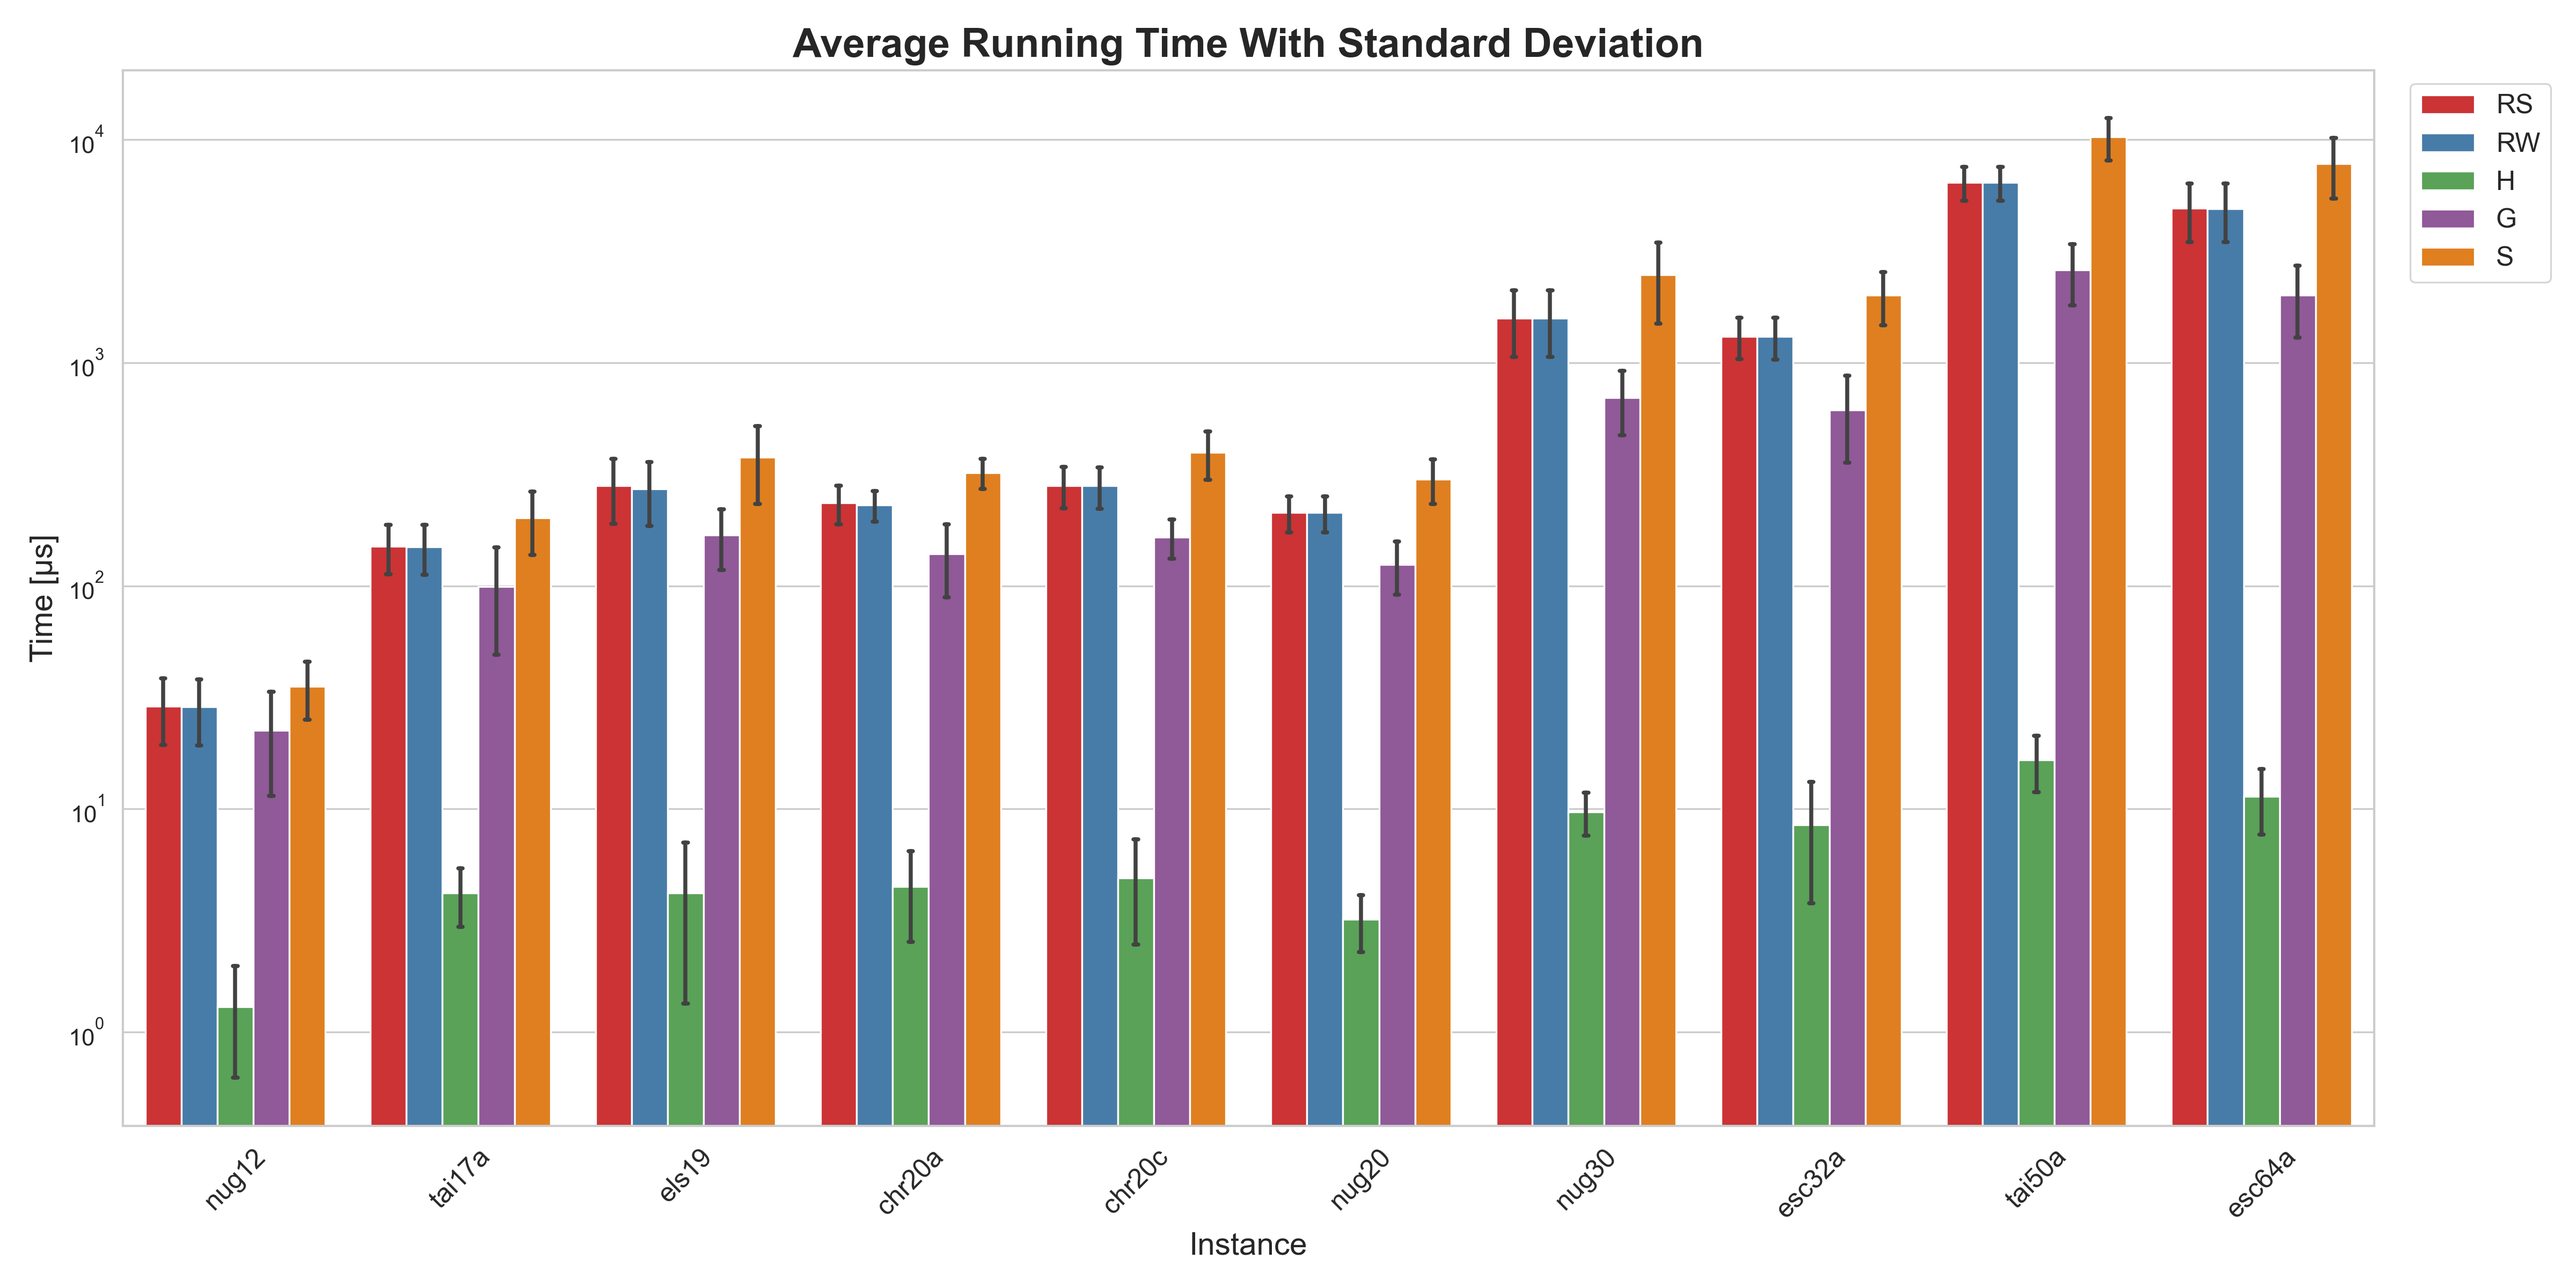
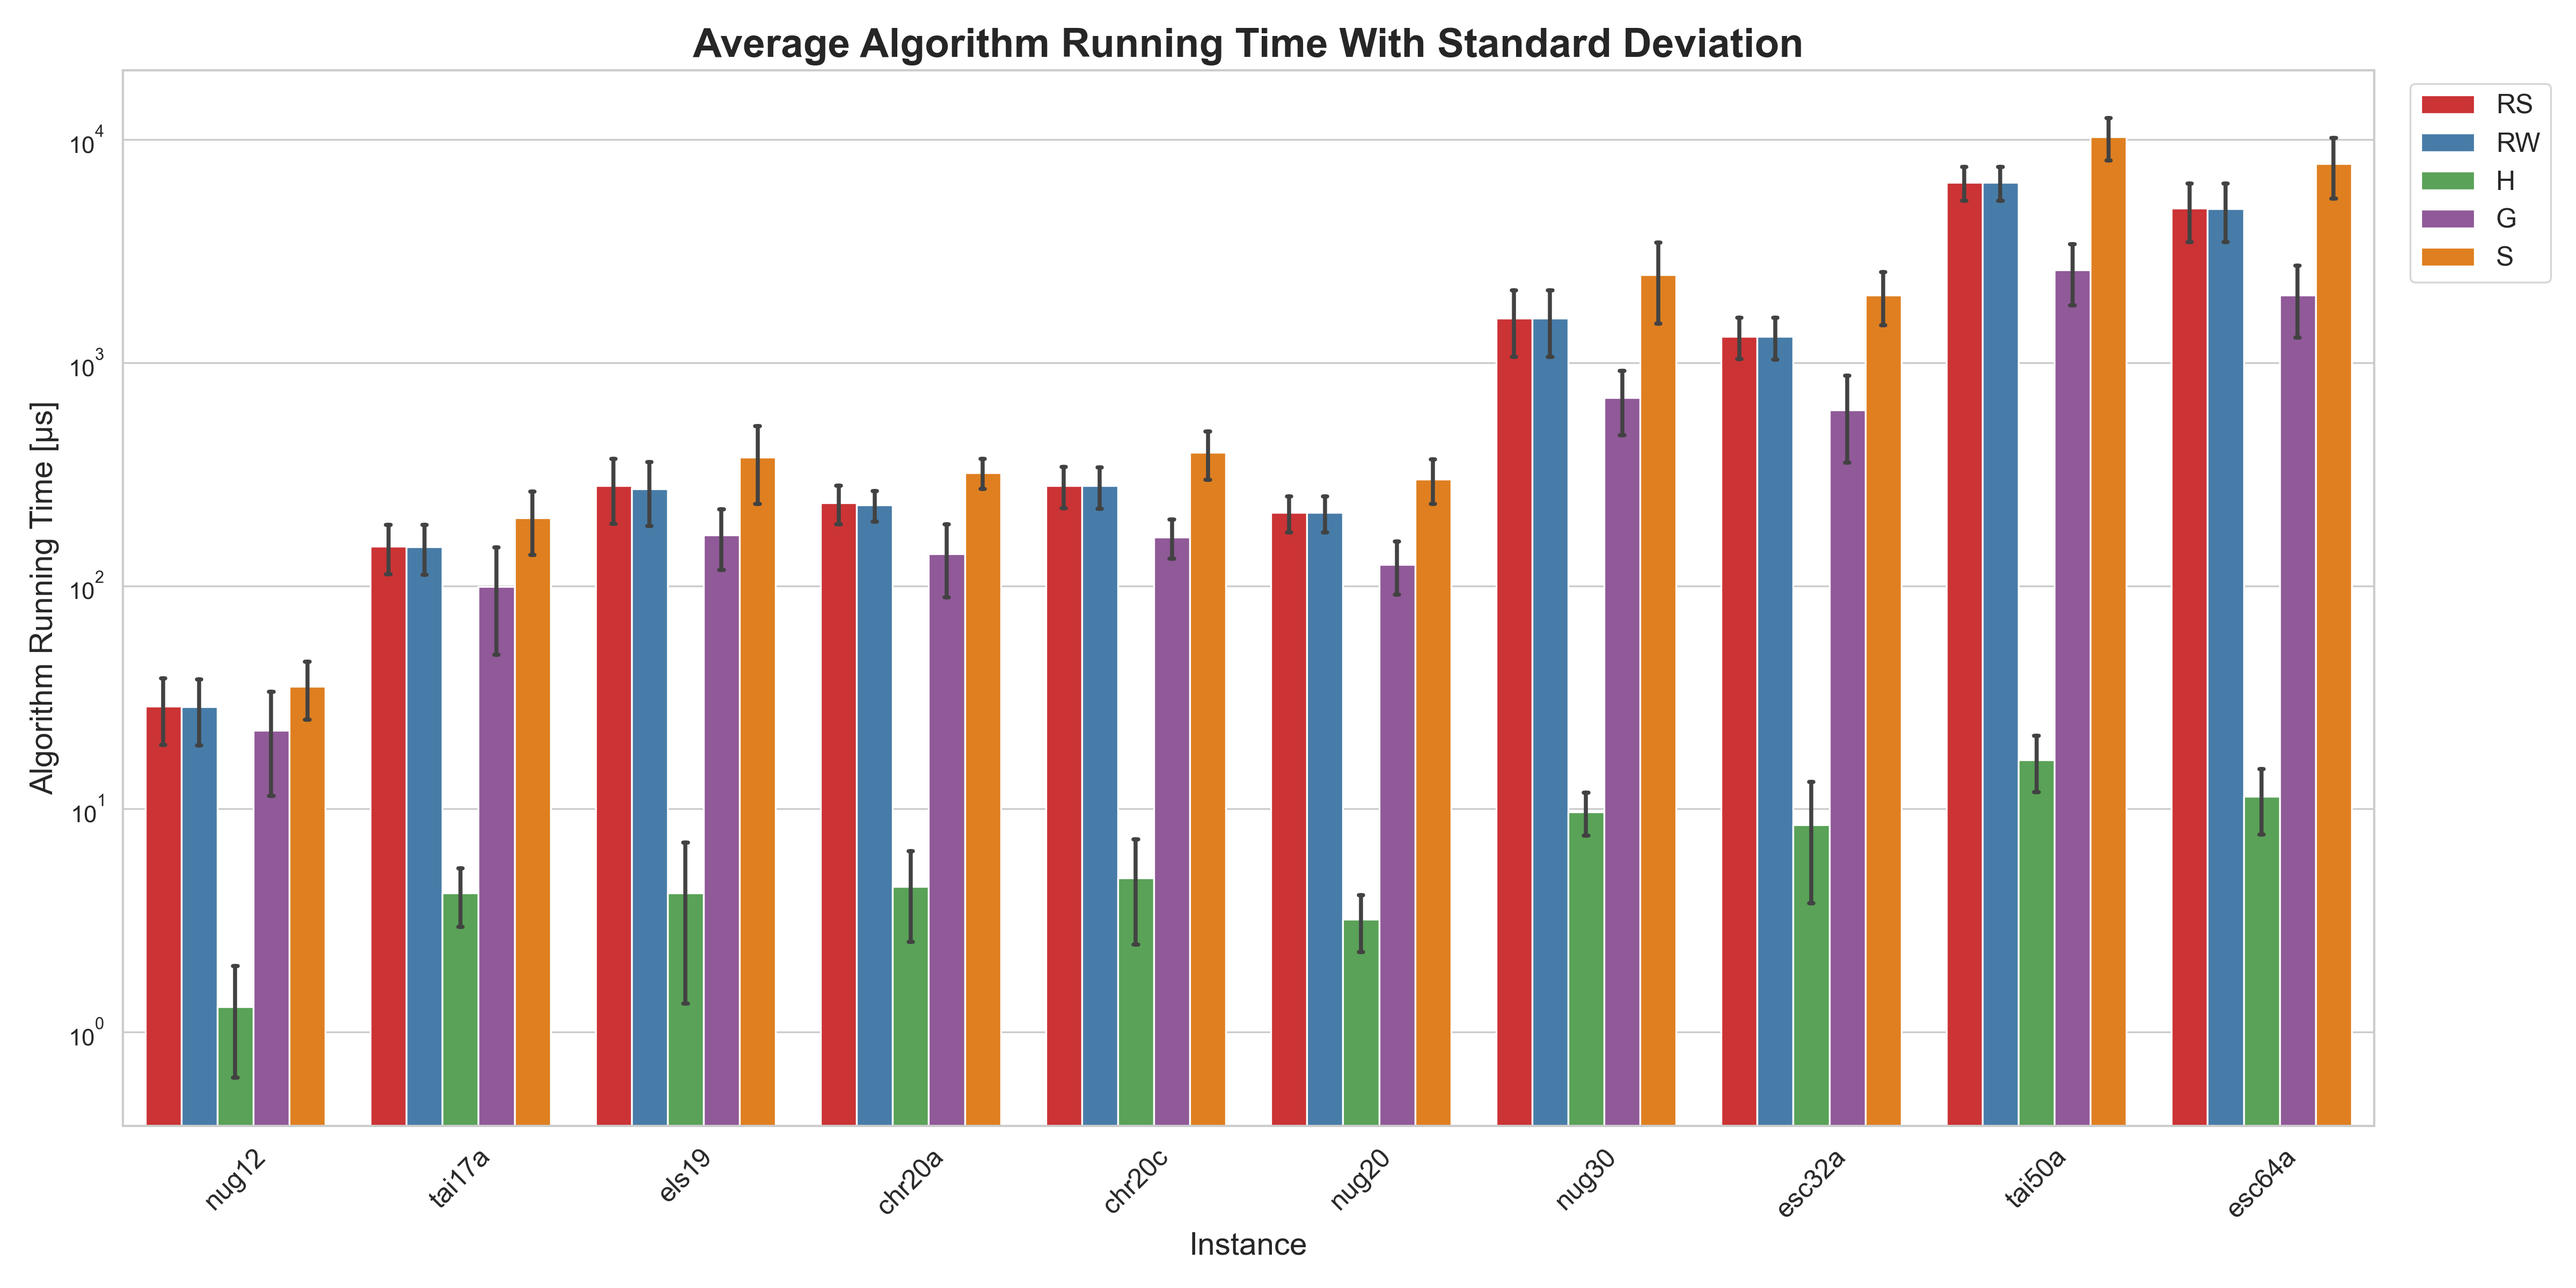
[PLOT]: efficiency

diff --git a/LS/src/plot.py b/LS/src/plot.py
@@ -40,8 +40,8 @@ def main():
     df['OptCost'] = df['OptCost'].replace(0, np.nan)
 
     # 1. QUALITY METRIC
-    # Quality Gap: (f_A - f_OPT) / f_OPT (Lower is better)
-    df['Quality_Gap'] = (df['BestCost'] - df['OptCost']) / df['OptCost']
+    # Quality: f_OPT/f_Best (Higher is better)
+    df['Quality'] = df['OptCost']/df['BestCost']
 
     # Sort instances by extracted size N, then by name
     df['Size'] = df['Instance'].apply(extract_size)
@@ -56,9 +56,9 @@ def main():
     # PLOT 1: QUALITY TRENDS (Min, Mean, Max)
     # ==========================================
     agg_q = df.groupby(['Algorithm', 'Instance', 'Size']).agg(
-        Gap_Min=('Quality_Gap', 'min'),
-        Gap_Mean=('Quality_Gap', 'mean'),
-        Gap_Max=('Quality_Gap', 'max')
+        Quality_Min=('Quality', 'min'),
+        Quality_Mean=('Quality', 'mean'),
+        Quality_Max=('Quality', 'max')
     ).reset_index()
 
     agg_q = agg_q.sort_values(by=['Size', 'Instance'])
@@ -70,14 +70,14 @@ def main():
     for ax, alg in zip(axes, algorithms):
         subset = agg_q[agg_q['Algorithm'] == alg]
 
-        # MAX (Worst case)
-        ax.plot(subset['Instance'], subset['Gap_Max'], marker='^', color='#e41a1c', 
+        # MAX (Worst case) - min quality
+        ax.plot(subset['Instance'], subset['Quality_Min'], marker='^', color='#e41a1c', 
                 linestyle='--', linewidth=2, markersize=8, label='Max')
         # AVERAGE
-        ax.plot(subset['Instance'], subset['Gap_Mean'], marker='o', color='#377eb8', 
+        ax.plot(subset['Instance'], subset['Quality_Mean'], marker='o', color='#377eb8', 
                 linestyle='-', linewidth=2.5, markersize=8, label='Average')
-        # MIN (Best case)
-        ax.plot(subset['Instance'], subset['Gap_Min'], marker='v', color='#4daf4a', 
+        # MIN (Best case) - max quality
+        ax.plot(subset['Instance'], subset['Quality_Max'], marker='v', color='#4daf4a', 
                 linestyle='--', linewidth=2, markersize=8, label='Min')
 
         ax.set_title(f"{alg}", fontweight='bold', fontsize=14)
@@ -88,9 +88,9 @@ def main():
         ax.set_xlabel("Instance", fontsize=14)
         ax.grid(True, linestyle='--', alpha=0.6)
 
-    axes[0].set_ylabel("Quality Gap", fontsize=14)
-    plt.suptitle("Quality Comparison", fontsize=18, fontweight='bold', y=1.05)
-    axes[-1].legend(loc='upper right', title="")
+    axes[0].set_ylabel("Algorithm Quality", fontsize=14)
+    plt.suptitle("Algorithm Quality Comparison", fontsize=18, fontweight='bold', y=1.05)
+    axes[-1].legend(loc='lower right', title="")
 
     plt.tight_layout()
     plt.savefig("plot_1_quality_trends.png", dpi=300, bbox_inches='tight')
@@ -102,7 +102,7 @@ def main():
     # Comparing average Quality Gap of all algorithms on each instance
     # ==========================================
     performance_agg = df.groupby(['Algorithm', 'Instance', 'Size']).agg(
-        AverageGap=('Quality_Gap', 'mean')
+        AverageQuality=('Quality', 'mean')
     ).reset_index()
 
     # Sort the aggregated data just to be safe
@@ -114,7 +114,7 @@ def main():
     sns.pointplot(
         data=performance_agg, 
         x='Instance', 
-        y='AverageGap', 
+        y='AverageQuality', 
         hue='Algorithm',
         hue_order=algorithms,         # Forces legend order (RS, RW, H, G, S)
         order=ordered_instances,      # FORCES X-AXIS SORTING BY N SIZE
@@ -125,8 +125,8 @@ def main():
         markersize=8
     )
     
-    plt.title("Average Quality Comparison", fontsize=18, fontweight='bold')
-    plt.ylabel("Average Quality Gap", fontsize=14)
+    plt.title("Average Algorithm Quality Comparison", fontsize=18, fontweight='bold')
+    plt.ylabel("Average Algorithm Quality", fontsize=14)
     plt.xlabel("Instance", fontsize=14)
     
     # Using a logarithmic scale on Y axis can be very helpful here because
@@ -162,8 +162,8 @@ def main():
         capsize=0.1              # Dodaje poziome kreski na końcach wąsów błędu
     )
     
-    plt.title("Average Running Time With Standard Deviation", fontsize=18, fontweight='bold')
-    plt.ylabel("Time [μs]", fontsize=14)
+    plt.title("Average Algorithm Running Time With Standard Deviation", fontsize=18, fontweight='bold')
+    plt.ylabel("Algorithm Running Time [μs]", fontsize=14)
     plt.xlabel("Instance", fontsize=14)
     
     # Skala logarytmiczna - kluczowa dla czasów wykonania algorytmów
@@ -176,6 +176,48 @@ def main():
     plt.savefig("plot_3_running_time.png", dpi=300)
     plt.close()
     print("✅ PLOT 3: Generated (Average Running Time)")
+
+    # ==========================================
+    # PLOT 4: EFFICIENCY (Raw Ratio Version)
+    # Efficiency = Quality_Ratio / ln(TimeMicros+1)
+    # Higher is better
+    # ==========================================
+
+    
+    # Efficiency: Ratio divided by Time (with epsilon=1 to prevent div by zero)
+    df['Efficiency'] = df['Quality'] / np.log(df['TimeMicros']+1)
+
+    plt.figure(figsize=(16, 8))
+    # plt.yscale('log')
+    
+    # Using pointplot to show the trend of efficiency across instance sizes
+    sns.pointplot(
+        data=df, 
+        x='Instance', 
+        y='Efficiency', 
+        hue='Algorithm',
+        hue_order=algorithms,    
+        order=ordered_instances, 
+        palette=palette,
+        errorbar='sd',           
+        capsize=0.1,
+        markers=['o', 's', 'D', 'v', '^'], 
+        linestyle='-',
+        linewidth=2,
+        markersize=8
+    )
+    
+    plt.title("Algorithm Efficiency Comparison]", fontsize=18, fontweight='bold')
+    plt.ylabel("Algorithm Efficiency", fontsize=14)
+    plt.xlabel("Instance", fontsize=14)
+    
+    plt.xticks(rotation=45, fontsize=12)
+    plt.legend(title="", bbox_to_anchor=(1.01, 1), loc='upper left', fontsize=12)
+    
+    plt.tight_layout()
+    plt.savefig("plot_4_efficiency.png", dpi=300)
+    plt.close()
+    print("✅ PLOT 4: Generated (Efficiency - Pointplot)")
 
     
 if __name__ == "__main__":

diff --git a/LS/src/main.rs b/LS/src/main.rs
@@ -4,7 +4,6 @@ mod search;
 use std::fs;
 use std::error::Error;
 use std::io::Write;
-use std::time::Instant;
 
 fn main() -> Result<(), Box<dyn Error>> {
     println!("=== Multi Start Local Search for QAP");
